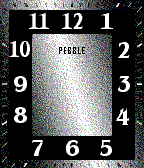
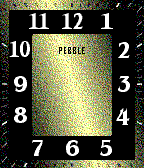
screenshots

diff --git a/config_watch.py b/config_watch.py
@@ -268,7 +268,7 @@ faces = {
         },
     'e' : {
         'filename' : ['e_face.png', 'e_face_white.png'],
-        'hand_color' : [ (0xff, 0x00), (0xfe, 0x00) ],
+        'hand_color' : [ (0xfe, 0x00), (0xff, 0x00) ],
         'date_window_a' : (72, 21, 'bt'),
         'date_window_b' : (21, 82, 'bt'),
         'date_window_c' : (123, 82, 'bt'),
